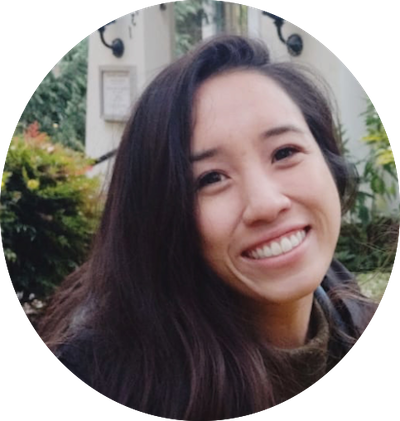
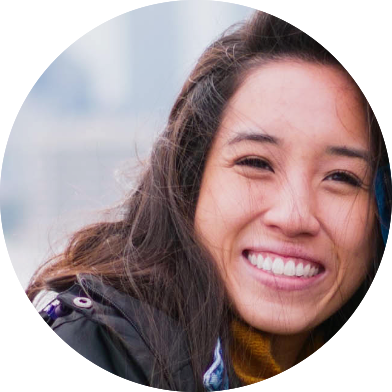
about me picture

diff --git a/about.html b/about.html
@@ -42,12 +42,19 @@
                     <section class="about" id="home-section">
                         <h2 class="about-header">A bit about me</h2>
                         <div class="info-container mb-5">
-                            <div>
-                            <p id="about-me-text" class="pb-5 mb-5">
-                                Former accountant, current developer.<br>
-
-                            </p>
-                            </div>                          
+                          <div class="row pt-3">
+                            <div class="col-4">
+                              <img src="../assets/images/bioimage.png">
+                            </div>
+                              <div class="col-6">    
+                              <p id="about-me-text" class="py-5 mb-5">
+                                  Former accountant, current developer.<br><br>
+                                  Lorem ipsum dolor sit amet, consectetur adipiscing elit, sed do eiusmod tempor incididunt ut labore et dolore magna aliqua. Ut enim ad minim veniam, quis nostrud exercitation ullamco laboris nisi ut aliquip ex ea commodo consequat. Duis aute irure dolor in reprehenderit in voluptate velit esse cillum dolore eu fugiat nulla pariatur.<br><br>
+                                  
+                                  Excepteur sint occaecat cupidatat non proident, sunt in culpa qui officia deserunt mollit anim id est laborum.
+                              </p>
+                            </div>
+                          </div>                          
                             <!-- picture? -->
 
                         </div>
@@ -87,7 +94,7 @@
                     </div>
 
                     <!-- RESUME BUTTON -->
-                    <div class="row pt-3">
+                    <div class="row py-5">
                       <div class="res-btn-container container">
                         <div class="row header">                                
                                 <a href="assets/files/RebeccaNguyen-Resume.pdf" target="_blank" class="res-btn">

diff --git a/contact.html b/contact.html
@@ -29,6 +29,9 @@
           <li>
             <a href="work.html">work</a>
           </li>
+          <li>
+            <a href="#">contact</a>
+          </li>
         </ul>
       </nav>
     </div>
